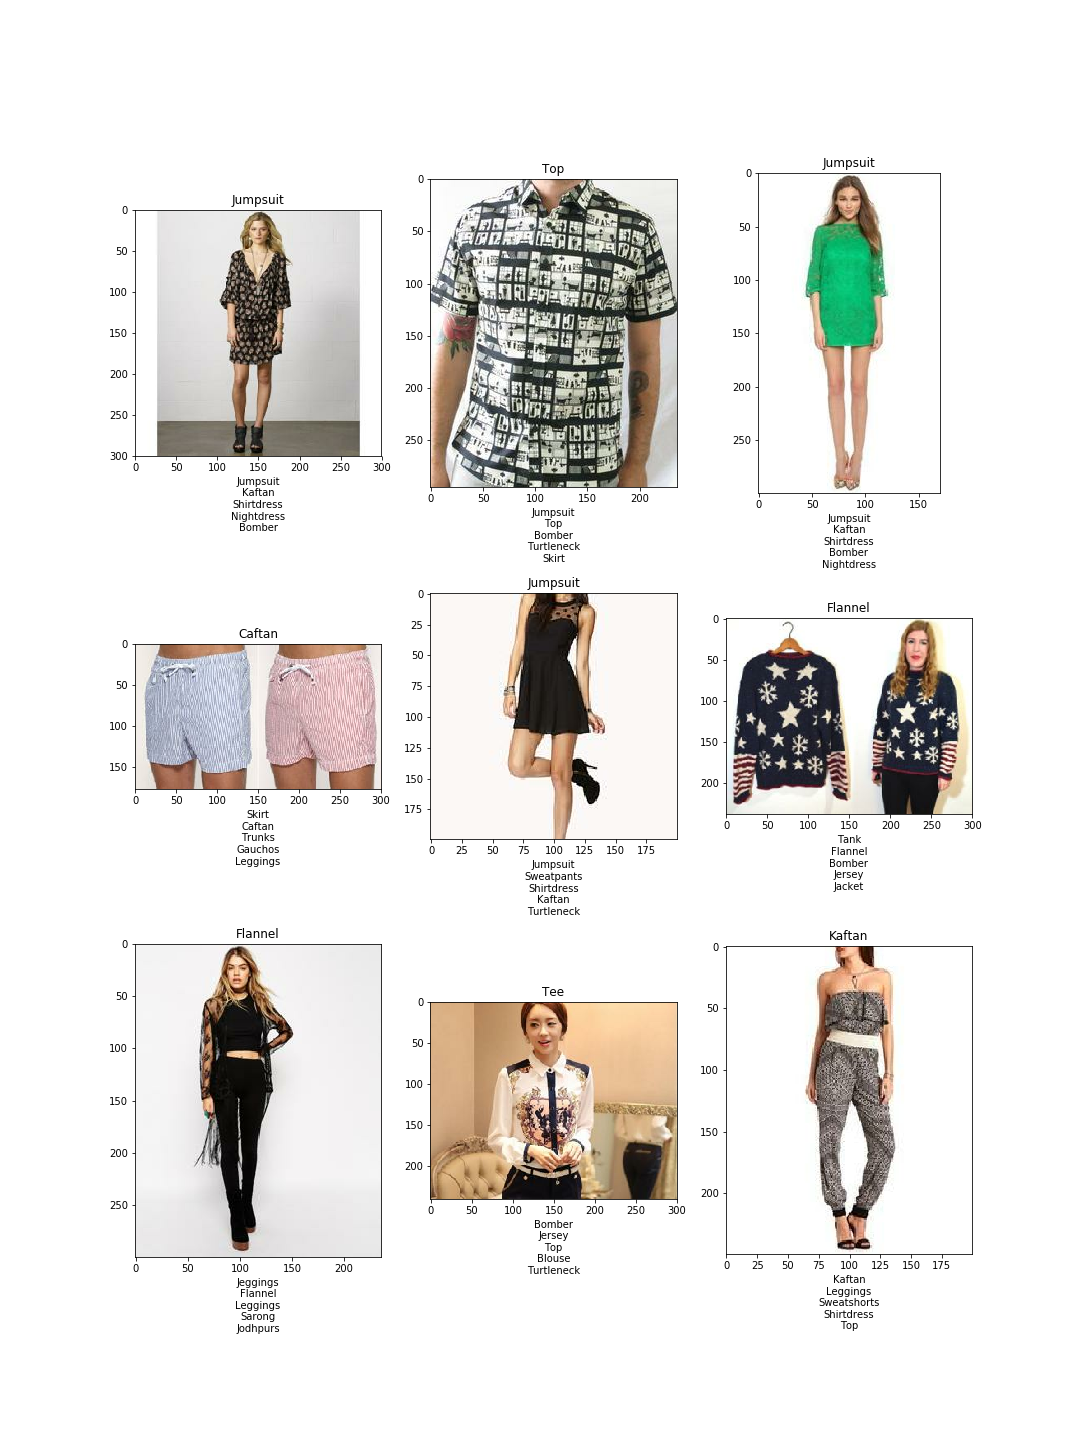
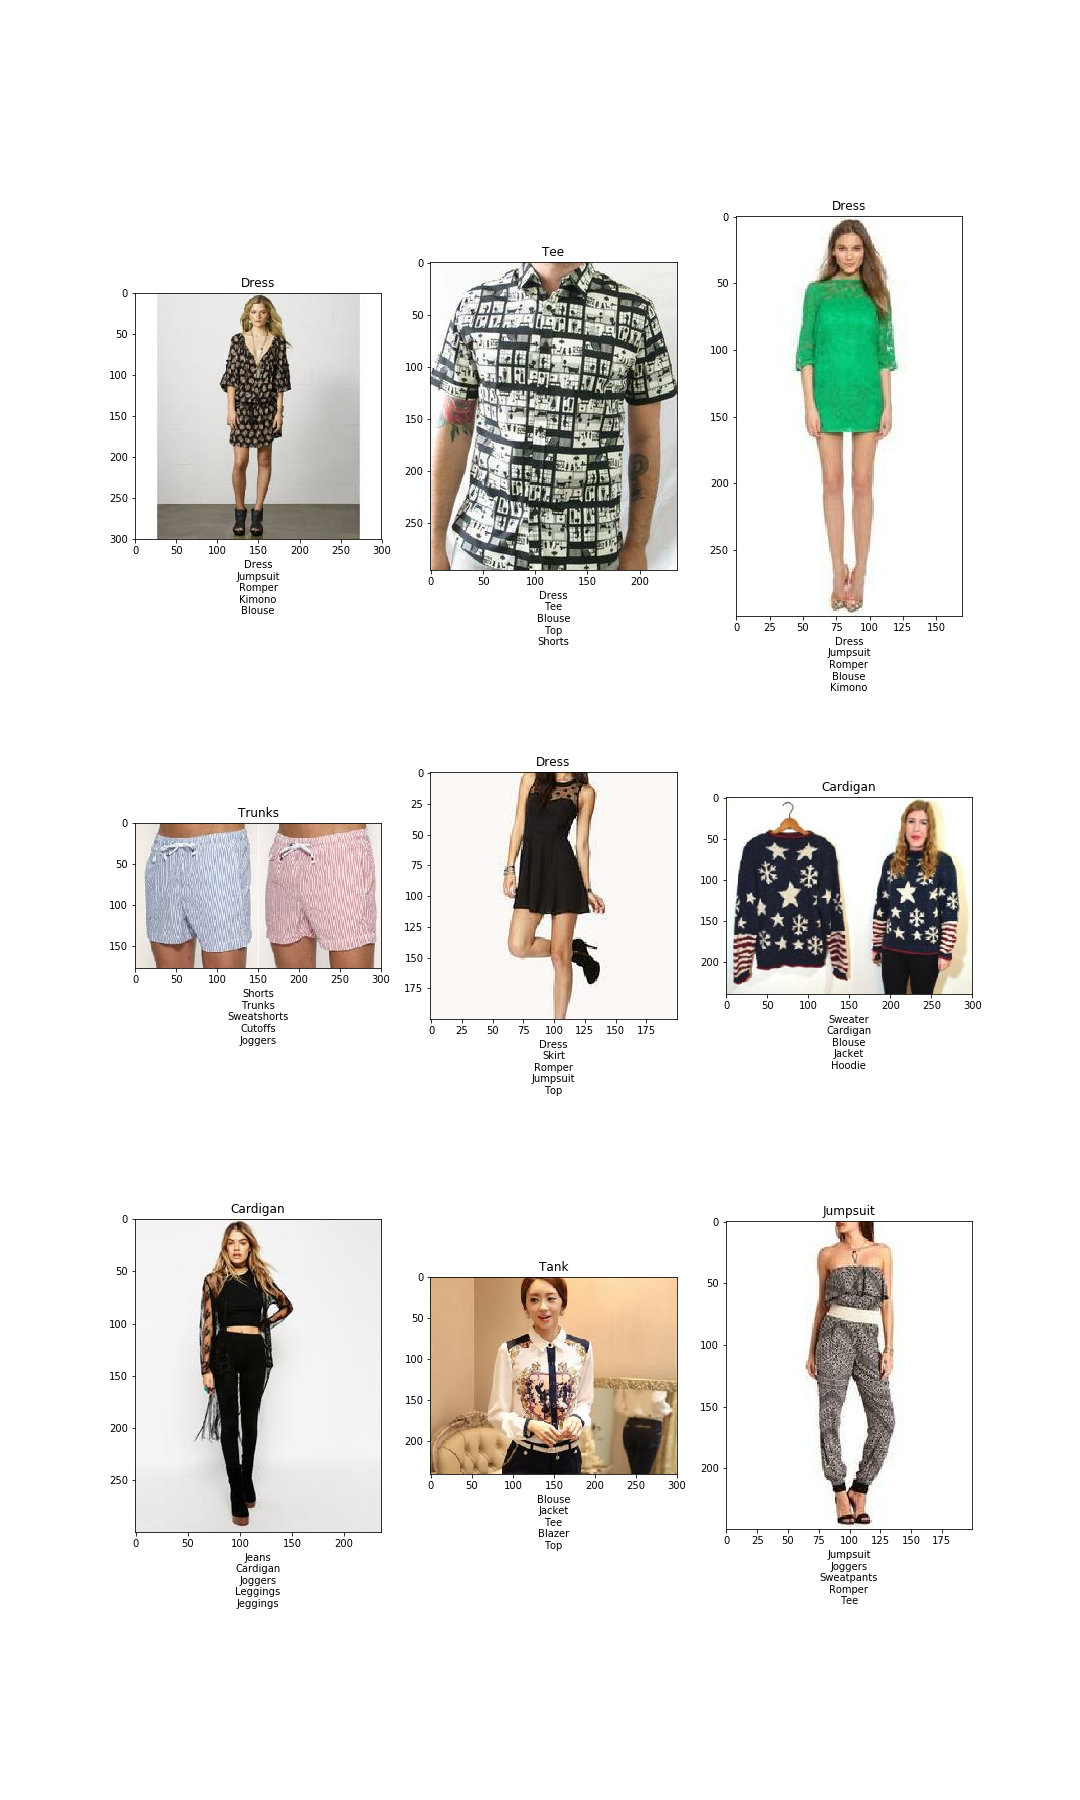
good spread of examples!

diff --git a/slide.py b/slide.py
@@ -2,6 +2,7 @@
 import tensorflow as tf
 import matplotlib.pyplot as plt
 import pandas as pd
+import numpy as np
 
 # %% enable eager execution
 tf.enable_eager_execution()
@@ -47,15 +48,15 @@ def slide_data(filename):
     predictions = (tf.nn.top_k(logits, k=5, sorted=True, name=None)
         .indices
         .numpy()[0])
-    predictions = category_cloth['category_name'][predictions].values
+    predictions = category_cloth['category_name'][predictions - 1].values
     label = category_img[category_img['image_name'] == filename]['category_label']
-    label = category_cloth['category_name'][int(label)]
+    label = category_cloth['category_name'][int(label) - 1]
     return {'image': image, 'predictions': predictions, 'label': label}
 
 # %% plot data
 def plot_data(filenames, filename):
     data = [slide_data(filename) for filename in filenames]
-    fig, axs =  plt.subplots(nrows=3, ncols=3, figsize=(15, 20))
+    fig, axs =  plt.subplots(nrows=3, ncols=3, figsize=(15, 25))
     index = 0
     for row in axs:
         for fig in row:
@@ -65,8 +66,18 @@ def plot_data(filenames, filename):
             index += 1
     plt.savefig(filename)
 
-# %% experiment
+
+# %% random filenames
+def random_filenames():
+    indexes = np.random.choice(range(len(category_img)), 10)
+    return category_img.iloc[indexes]['image_name'].values
+
+# %% plot chosen
 filenames = pd.read_csv(
     'chosen.txt', header=None, names=['image_name'])['image_name'].values
 
 plot_data(filenames, 'chosen.png')
+
+
+# %% plot random
+plot_data(random_filenames(), 'random.png')
